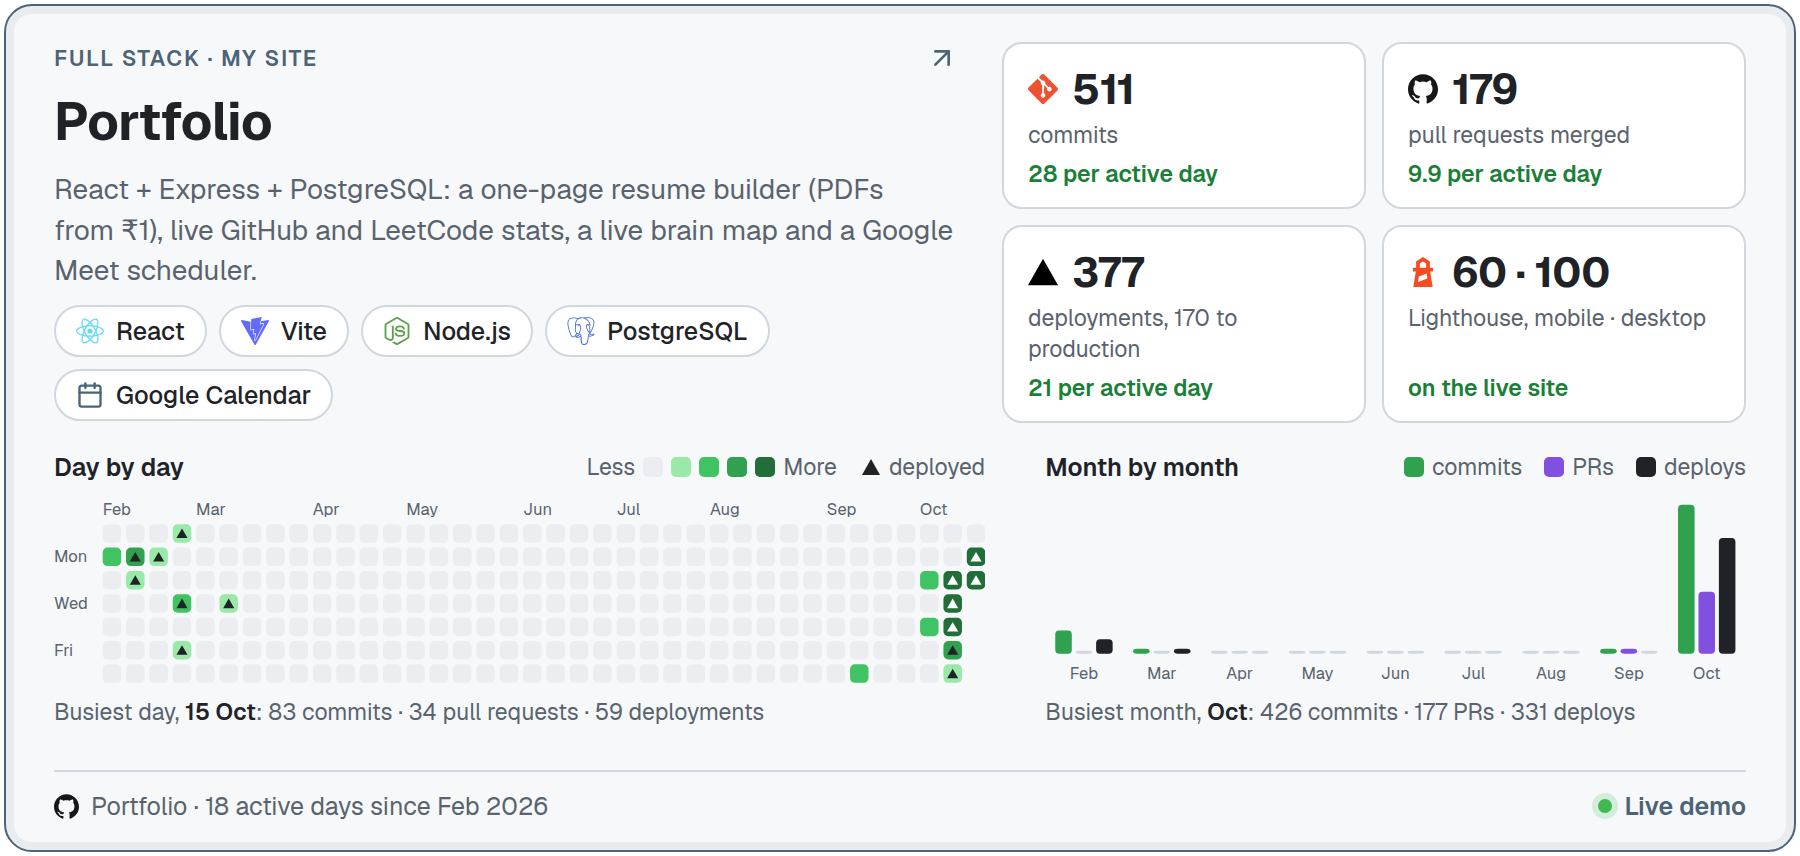
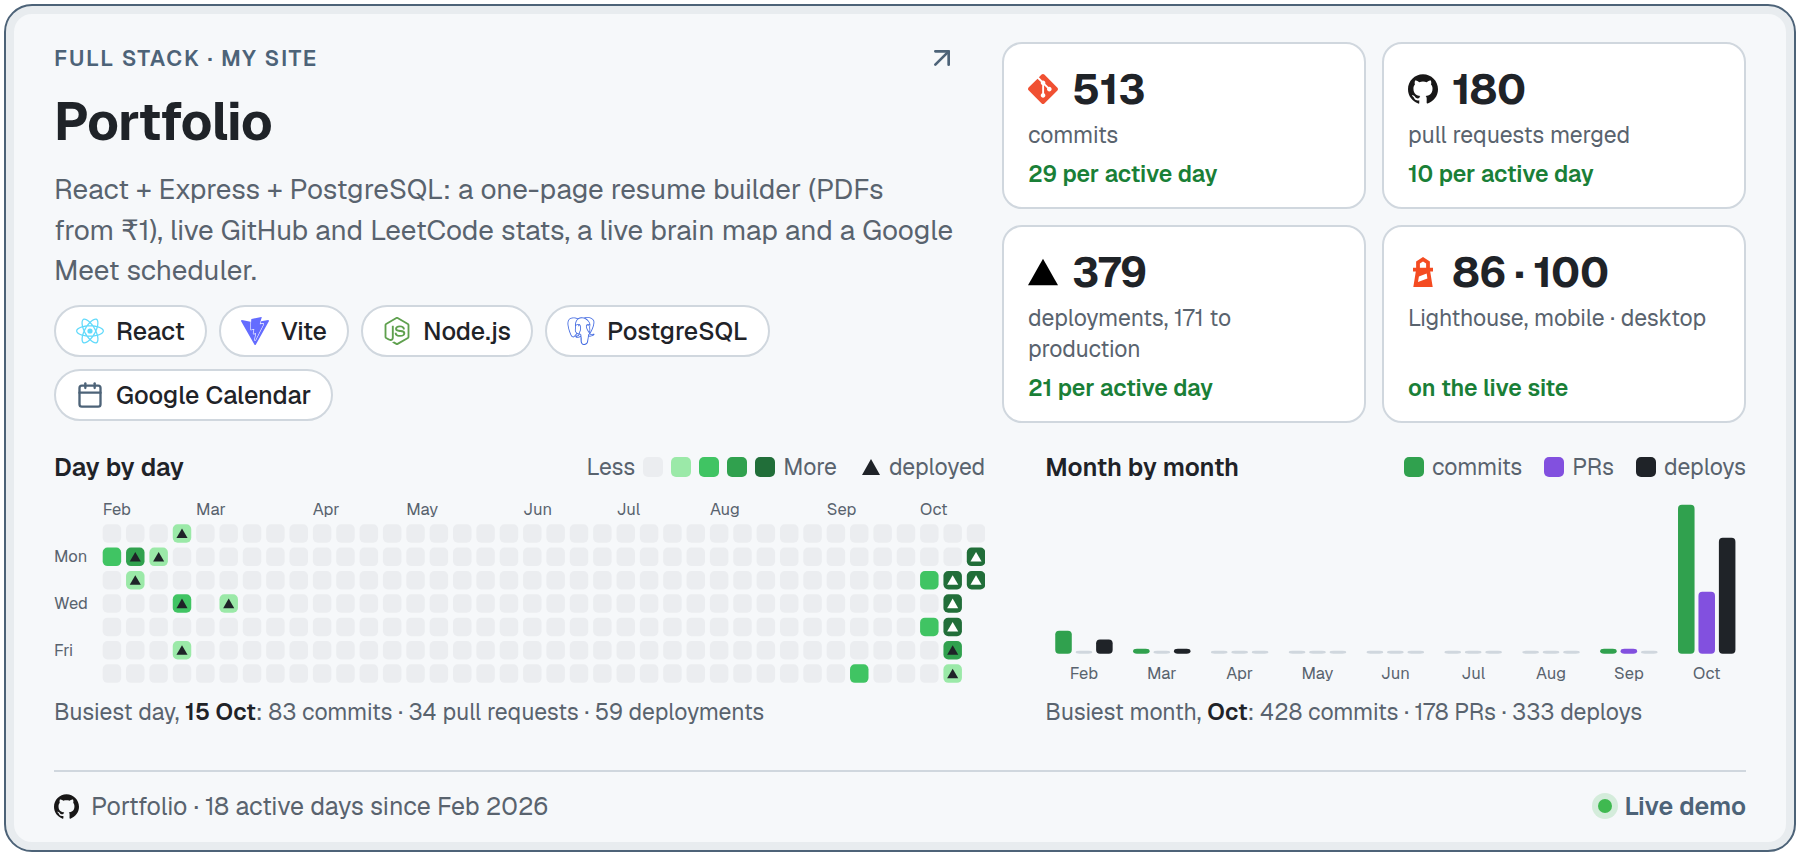
Portfolio card: refresh its numbers and graph

diff --git a/README.md b/README.md
@@ -34,7 +34,7 @@
 ### Projects
 
 <p>
-  <a href="https://github.com/AnkitDimri4/Portfolio"><picture><source media="(prefers-color-scheme: dark)" srcset="assets/cards/project-portfolio-dark.png"><img src="assets/cards/project-portfolio-light.png" alt="Portfolio: React + Express + PostgreSQL: a one-page resume builder (PDFs from ₹1), live GitHub and LeetCode stats, a live brain map and a Google Meet scheduler. 511 commits, 179 pull requests merged, 377 deployments (170 to production), Lighthouse 60 on mobile and 100 on desktop. Graphs of my commits and the site's deployments, day by day and month by month: 18 active days since February 2026, with 28 commits, 9.9 pull requests and 21 deployments per active day. Live demo." width="100%"></picture></a>
+  <a href="https://github.com/AnkitDimri4/Portfolio"><picture><source media="(prefers-color-scheme: dark)" srcset="assets/cards/project-portfolio-dark.png"><img src="assets/cards/project-portfolio-light.png" alt="Portfolio: React + Express + PostgreSQL: a one-page resume builder (PDFs from ₹1), live GitHub and LeetCode stats, a live brain map and a Google Meet scheduler. 513 commits, 180 pull requests merged, 379 deployments (171 to production), Lighthouse 86 on mobile and 100 on desktop. Graphs of my commits and the site's deployments, day by day and month by month: 18 active days since February 2026, with 29 commits, 10 pull requests and 21 deployments per active day. Live demo." width="100%"></picture></a>
 </p>
 <p>
   <a href="https://github.com/AnkitDimri4/ai-first-hcp-interaction-crm"><picture><source media="(prefers-color-scheme: dark)" srcset="assets/cards/project-hcp-crm-dark.png"><img src="assets/cards/project-hcp-crm-light.png" alt="AI-first HCP CRM: reps log doctor visits in plain English; a LangGraph agent with 5 tools fills in the record. LangGraph, FastAPI, PostgreSQL, React. Live demo." width="49%"></picture></a>
